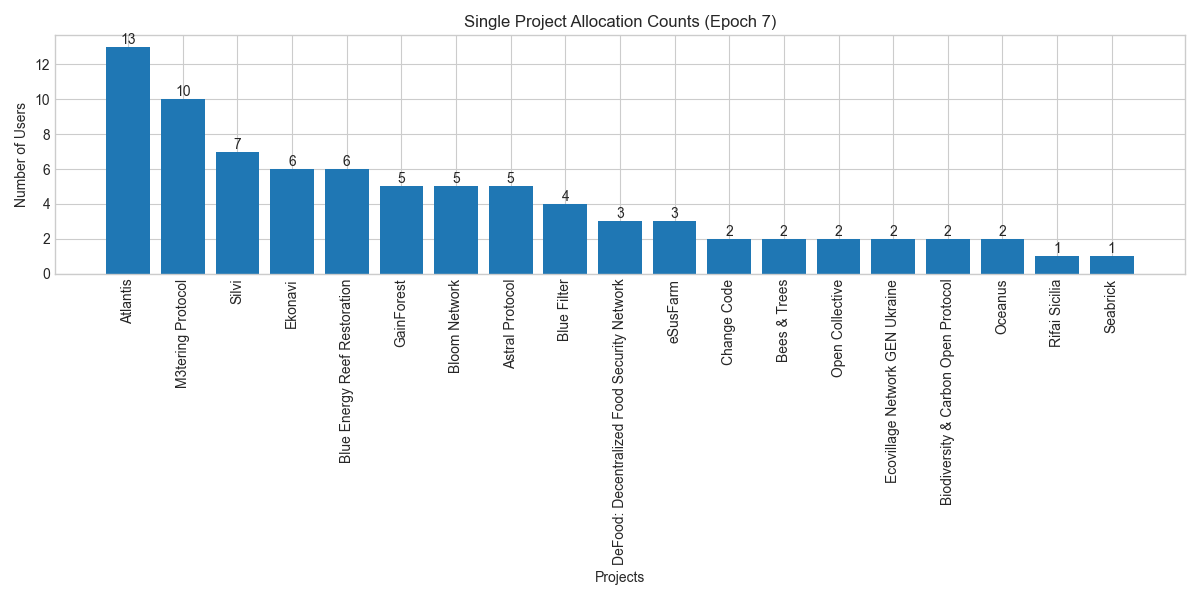
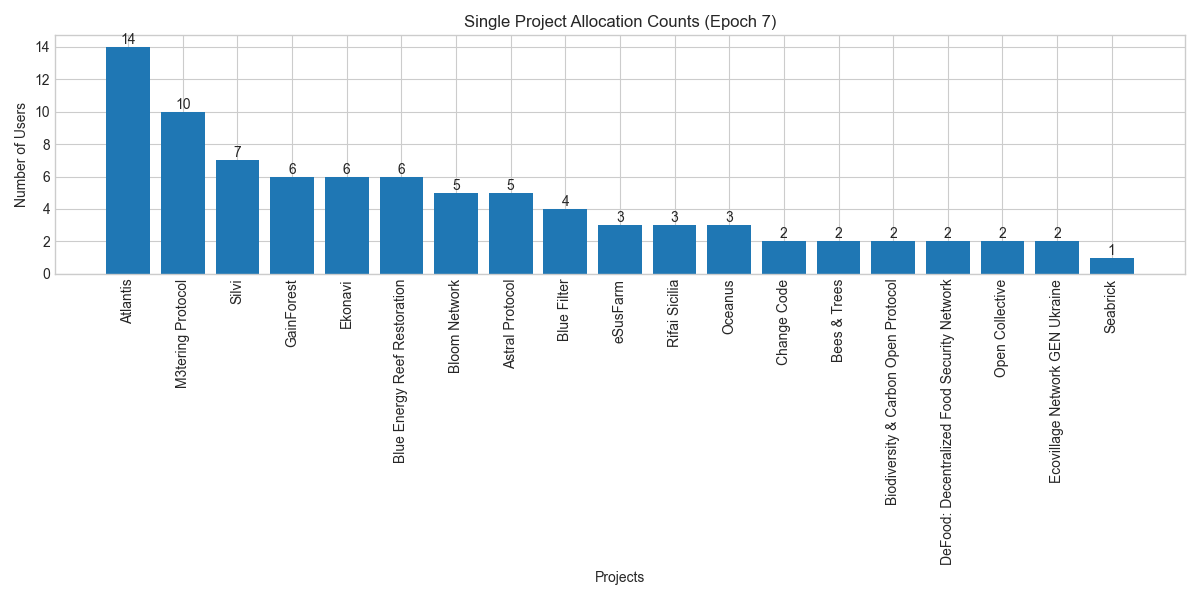
update data

diff --git a/_site/e7.html b/_site/e7.html
@@ -158,10 +158,10 @@
     <tr>
       <td style="width: 1%; text-align: center; padding: 8px; word-wrap: break-word; white-space: normal;">7</td>
       <td style="width: 1%; text-align: center; padding: 8px; word-wrap: break-word; white-space: normal;">211.906</td>
-      <td style="width: 1%; text-align: center; padding: 8px; word-wrap: break-word; white-space: normal;">186.272</td>
-      <td style="width: 1%; text-align: center; padding: 8px; word-wrap: break-word; white-space: normal;">1.840</td>
-      <td style="width: 1%; text-align: center; padding: 8px; word-wrap: break-word; white-space: normal;">12.1</td>
-      <td style="width: 1%; text-align: center; padding: 8px; word-wrap: break-word; white-space: normal;">87.9</td>
+      <td style="width: 1%; text-align: center; padding: 8px; word-wrap: break-word; white-space: normal;">190.628</td>
+      <td style="width: 1%; text-align: center; padding: 8px; word-wrap: break-word; white-space: normal;">1.847</td>
+      <td style="width: 1%; text-align: center; padding: 8px; word-wrap: break-word; white-space: normal;">10.0</td>
+      <td style="width: 1%; text-align: center; padding: 8px; word-wrap: break-word; white-space: normal;">90.0</td>
       <td style="width: 1%; text-align: center; padding: 8px; word-wrap: break-word; white-space: normal;">1.0</td>
     </tr>
   </tbody>
@@ -229,9 +229,9 @@
     <tr>
       <td style="width: 1%; text-align: center; padding: 8px; word-wrap: break-word; white-space: normal;">7</td>
       <td style="width: 1%; text-align: center; padding: 8px; word-wrap: break-word; white-space: normal;">2162</td>
-      <td style="width: 1%; text-align: center; padding: 8px; word-wrap: break-word; white-space: normal;">309</td>
-      <td style="width: 1%; text-align: center; padding: 8px; word-wrap: break-word; white-space: normal;">270</td>
-      <td style="width: 1%; text-align: center; padding: 8px; word-wrap: break-word; white-space: normal;">14.3</td>
+      <td style="width: 1%; text-align: center; padding: 8px; word-wrap: break-word; white-space: normal;">332</td>
+      <td style="width: 1%; text-align: center; padding: 8px; word-wrap: break-word; white-space: normal;">287</td>
+      <td style="width: 1%; text-align: center; padding: 8px; word-wrap: break-word; white-space: normal;">15.4</td>
     </tr>
   </tbody>
 </table>
@@ -297,10 +297,10 @@
     </tr>
     <tr>
       <td style="width: 1%; text-align: center; padding: 8px; word-wrap: break-word; white-space: normal;">7</td>
-      <td style="width: 1%; text-align: center; padding: 8px; word-wrap: break-word; white-space: normal;">62</td>
+      <td style="width: 1%; text-align: center; padding: 8px; word-wrap: break-word; white-space: normal;">67</td>
       <td style="width: 1%; text-align: center; padding: 8px; word-wrap: break-word; white-space: normal;">10</td>
       <td style="width: 1%; text-align: center; padding: 8px; word-wrap: break-word; white-space: normal;">24</td>
-      <td style="width: 1%; text-align: center; padding: 8px; word-wrap: break-word; white-space: normal;">92</td>
+      <td style="width: 1%; text-align: center; padding: 8px; word-wrap: break-word; white-space: normal;">102</td>
     </tr>
   </tbody>
 </table>
@@ -598,7 +598,7 @@
             <span>Octant Monitor</span>
         </div>
         <div class="footer-info">
-            <p class="footer-update">Last update: 2025-04-18 09:40:38</p>
+            <p class="footer-update">Last update: 2025-04-19 09:07:36</p>
             <p class="copyright">&copy; 2025 Octant. All rights reserved.</p>
         </div>
     </div>

diff --git a/_includes/e7/table_amounts.html b/_includes/e7/table_amounts.html
@@ -68,10 +68,10 @@
     <tr>
       <td style="width: 1%; text-align: center; padding: 8px; word-wrap: break-word; white-space: normal;">7</td>
       <td style="width: 1%; text-align: center; padding: 8px; word-wrap: break-word; white-space: normal;">211.906</td>
-      <td style="width: 1%; text-align: center; padding: 8px; word-wrap: break-word; white-space: normal;">186.272</td>
-      <td style="width: 1%; text-align: center; padding: 8px; word-wrap: break-word; white-space: normal;">1.840</td>
-      <td style="width: 1%; text-align: center; padding: 8px; word-wrap: break-word; white-space: normal;">12.1</td>
-      <td style="width: 1%; text-align: center; padding: 8px; word-wrap: break-word; white-space: normal;">87.9</td>
+      <td style="width: 1%; text-align: center; padding: 8px; word-wrap: break-word; white-space: normal;">190.628</td>
+      <td style="width: 1%; text-align: center; padding: 8px; word-wrap: break-word; white-space: normal;">1.847</td>
+      <td style="width: 1%; text-align: center; padding: 8px; word-wrap: break-word; white-space: normal;">10.0</td>
+      <td style="width: 1%; text-align: center; padding: 8px; word-wrap: break-word; white-space: normal;">90.0</td>
       <td style="width: 1%; text-align: center; padding: 8px; word-wrap: break-word; white-space: normal;">1.0</td>
     </tr>
   </tbody>

diff --git a/_includes/e7/table_users.html b/_includes/e7/table_users.html
@@ -54,9 +54,9 @@
     <tr>
       <td style="width: 1%; text-align: center; padding: 8px; word-wrap: break-word; white-space: normal;">7</td>
       <td style="width: 1%; text-align: center; padding: 8px; word-wrap: break-word; white-space: normal;">2162</td>
-      <td style="width: 1%; text-align: center; padding: 8px; word-wrap: break-word; white-space: normal;">309</td>
-      <td style="width: 1%; text-align: center; padding: 8px; word-wrap: break-word; white-space: normal;">270</td>
-      <td style="width: 1%; text-align: center; padding: 8px; word-wrap: break-word; white-space: normal;">14.3</td>
+      <td style="width: 1%; text-align: center; padding: 8px; word-wrap: break-word; white-space: normal;">332</td>
+      <td style="width: 1%; text-align: center; padding: 8px; word-wrap: break-word; white-space: normal;">287</td>
+      <td style="width: 1%; text-align: center; padding: 8px; word-wrap: break-word; white-space: normal;">15.4</td>
     </tr>
   </tbody>
 </table>

diff --git a/_includes/e7/table_cohorts.html b/_includes/e7/table_cohorts.html
@@ -53,10 +53,10 @@
     </tr>
     <tr>
       <td style="width: 1%; text-align: center; padding: 8px; word-wrap: break-word; white-space: normal;">7</td>
-      <td style="width: 1%; text-align: center; padding: 8px; word-wrap: break-word; white-space: normal;">62</td>
+      <td style="width: 1%; text-align: center; padding: 8px; word-wrap: break-word; white-space: normal;">67</td>
       <td style="width: 1%; text-align: center; padding: 8px; word-wrap: break-word; white-space: normal;">10</td>
       <td style="width: 1%; text-align: center; padding: 8px; word-wrap: break-word; white-space: normal;">24</td>
-      <td style="width: 1%; text-align: center; padding: 8px; word-wrap: break-word; white-space: normal;">92</td>
+      <td style="width: 1%; text-align: center; padding: 8px; word-wrap: break-word; white-space: normal;">102</td>
     </tr>
   </tbody>
 </table>

diff --git a/_site/e5.html b/_site/e5.html
@@ -373,7 +373,7 @@
             <span>Octant Monitor</span>
         </div>
         <div class="footer-info">
-            <p class="footer-update">Last update: 2025-04-18 09:40:38</p>
+            <p class="footer-update">Last update: 2025-04-19 09:07:36</p>
             <p class="copyright">&copy; 2025 Octant. All rights reserved.</p>
         </div>
     </div>

diff --git a/_site/e6.html b/_site/e6.html
@@ -518,7 +518,7 @@
             <span>Octant Monitor</span>
         </div>
         <div class="footer-info">
-            <p class="footer-update">Last update: 2025-04-18 09:40:38</p>
+            <p class="footer-update">Last update: 2025-04-19 09:07:36</p>
             <p class="copyright">&copy; 2025 Octant. All rights reserved.</p>
         </div>
     </div>

diff --git a/_site/index.html b/_site/index.html
@@ -121,7 +121,7 @@
             <span>Octant Monitor</span>
         </div>
         <div class="footer-info">
-            <p class="footer-update">Last update: 2025-04-18 09:40:38</p>
+            <p class="footer-update">Last update: 2025-04-19 09:07:36</p>
             <p class="copyright">&copy; 2025 Octant. All rights reserved.</p>
         </div>
     </div>

diff --git a/_includes/e7/current_datetime.html b/_includes/e7/current_datetime.html
@@ -7,6 +7,6 @@
     <title>Current Date and Time</title>
 </head>
 <body>
-    <p>Last update: 2025-04-18 09:40:30</p>
+    <p>Last update: 2025-04-19 09:07:27</p>
 </body>
 </html>
